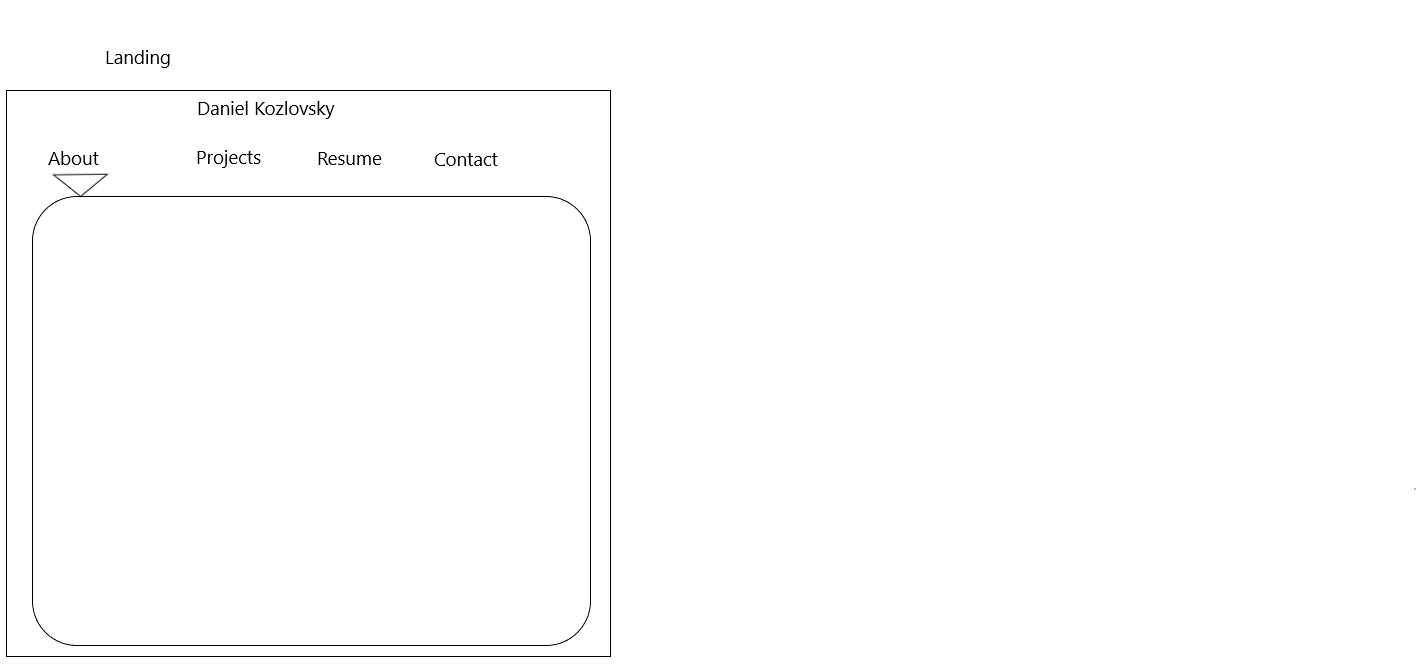
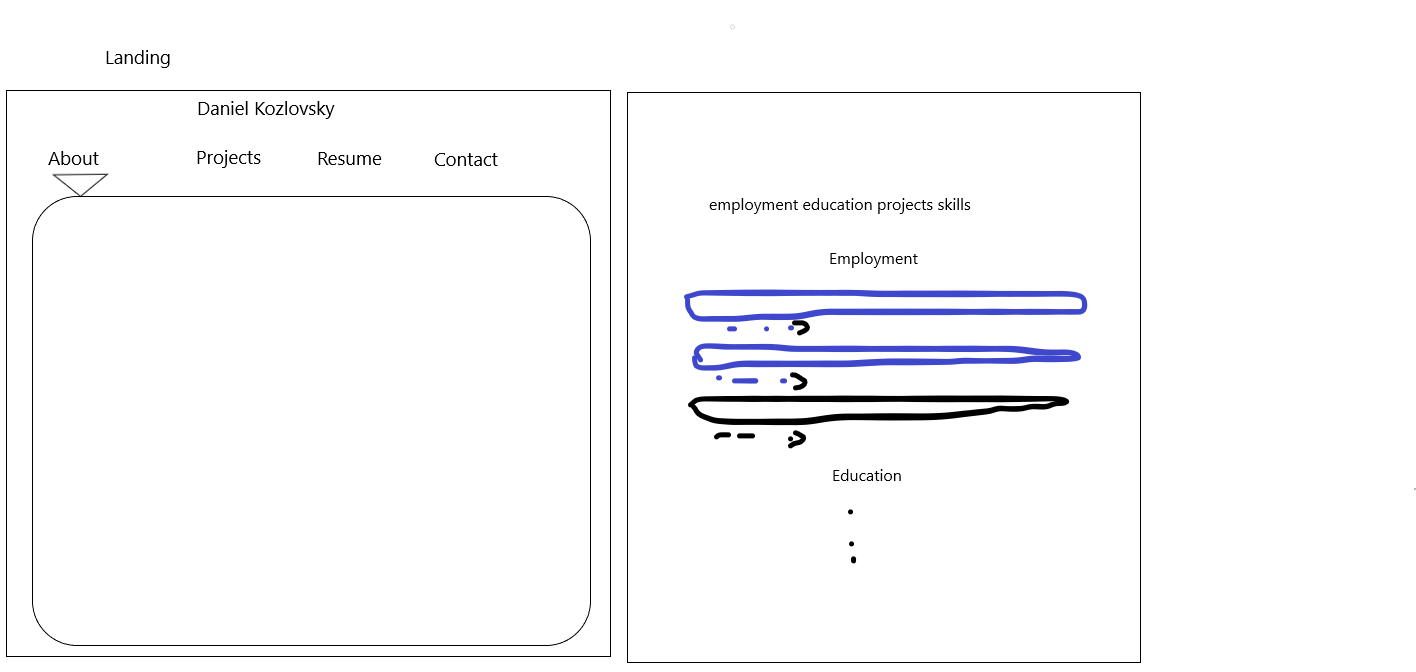
started styling, added main content

diff --git a/my-website/src/components/App.jsx b/my-website/src/components/App.jsx
@@ -1,34 +1,44 @@
 import React from 'react';
 import {Switch, Route, Link as NavLink} from 'react-router-dom';
-import withStyles from 'react-jss';
+import withStyles, { useTheme } from 'react-jss';
 
 import Contact from './routes/Contact';
 import About from './routes/About';
 import Resume from './routes/Resume';
 import Projects from './routes/Projects';
 
-const ABOUT_PATH = "/";
-const PROJECTS_PATH = "/Projects";
-const CONTACT_PATH = "/Contact";
-const RESUME_PATH = "/Resume";
+export const ABOUT_PATH = "/";
+export const PROJECTS_PATH = "/Projects";
+export const CONTACT_PATH = "/Contact";
+export const RESUME_PATH = "/Resume";
 
 class App extends React.Component {
+  
+  constructor(props) {
+    super(props);
+    const {theme} = this.props;
+    document.body.style.backgroundColor = theme.page.backgroundColor;
+  }
 
   render (){
     const {classes} = this.props;
     return (
       <div className={classes.root}>
-        <NavLink to={ABOUT_PATH}>About Me</NavLink>
-        <NavLink to={PROJECTS_PATH}>Projects</NavLink>
-        <NavLink to={RESUME_PATH}>Resume</NavLink>
-        <NavLink to={CONTACT_PATH}>Contact</NavLink>
-        
-        <Switch>
-          <Route path={PROJECTS_PATH} component={Projects}/>
-          <Route path={RESUME_PATH} component={Resume}/>
-          <Route path={CONTACT_PATH} component={Contact}/>
-          <Route path={ABOUT_PATH} component={About}/>
-        </Switch>
+        <h1 className={classes.name}>Daniel Kozlovsky</h1>
+        <div className={classes.navBar}>
+          <NavLink to={ABOUT_PATH}>About Me</NavLink>
+          <NavLink to={PROJECTS_PATH}>Projects</NavLink>
+          <NavLink to={RESUME_PATH}>Resume</NavLink>
+          <NavLink to={CONTACT_PATH}>Contact</NavLink>
+        </div>
+        <div className={classes.page}>
+          <Switch>
+            <Route path={PROJECTS_PATH} component={Projects}/>
+            <Route path={RESUME_PATH} component={Resume}/>
+            <Route path={CONTACT_PATH} component={Contact}/>
+            <Route path={ABOUT_PATH} component={About}/>
+          </Switch>
+        </div>
       </div>
     );
   }
@@ -36,8 +46,21 @@ class App extends React.Component {
 
 const styles = (theme) => ({
   root: {
-    background: theme.background,
+    height: '100vh'
   },
+  name: {
+    textAlign: 'center',
+    marginTop: '2%'
+  },
+  navBar: {
+    display: 'flex',
+    justifyContent: 'space-evenly',
+
+    '& a': {
+      margin: 'auto'
+    }
+  },
+  page: {},
 });
 
-export default withStyles(styles)(App);
+export default withStyles(styles, {injectTheme: true})(App);

diff --git a/my-website/src/components/routes/About.jsx b/my-website/src/components/routes/About.jsx
@@ -1,17 +1,44 @@
 import React from 'react';
+import withStyles from 'react-jss';
+import { Link } from 'react-router-dom';
 
+import {PROJECTS_PATH} from '../App.jsx';
+
+import myPortrait from '../../media/img/danielcartoon4.png';
 
 class About extends React.Component {
 
     render() {
+        const {classes} = this.props;
         return (
-            <div>
-                <img alt="headshot"/>
-                <p>About me</p>
+            <div className={classes.root}>
+                <img className={classes.portrait} src={myPortrait} alt="My Portrait"/>
+                <div className={classes.blockText}>
+                    <p className={classes.text}>
+                        Hi, I'm Daniel and I'm an adventurer through the world of computers. I'm mainly interested in programming and passionate about 
+                        computer security. In fact, I'm always looking for opportunities to combine the two. I recently finished school, where I earned my Software Engineering degree
+                        and got the chance to work on cool projects like <Link to={PROJECTS_PATH}>these</Link>.
+                    </p>
+                    <p className={classes.text}>
+                        Programming allows me to build things, exercising my creativity and problem solving technique. As a result I have fun programming, and learning new technologies on the way.
+                        In addition, computer security is important to me because I believe it's essential for advancing cyber technologies. It's also an interesting field in the way that there are 
+                        creative solutions to curious problems. 
+                    </p>
+                </div>
             </div>
         );
     }
 
 }
 
-export default About;
+const styles = (theme) => ({
+    root: {
+        display: 'flex',
+        
+    },
+    portrait: {},
+    blockText: {},
+    text: {},
+});
+
+export default withStyles(styles)(About);

diff --git a/my-website/src/components/routes/Resume.jsx b/my-website/src/components/routes/Resume.jsx
@@ -1,4 +1,5 @@
 import React from 'react';
+import {GrDocumentDownload} from 'react-icons/gr';
 
 
 class Resume extends React.Component {
@@ -7,9 +8,22 @@ class Resume extends React.Component {
         return (
             <div>
                 <h2>Here is my resume</h2>
-                <a href="resume.pdf" download="resume.pdf">dl</a>
+                <a href="resume.pdf" download="resume.pdf">Download my comprehensive resume here <GrDocumentDownload/></a>
                 <hr/>
-                <p>Resume...</p>
+                <div>
+                    <h3>Employment</h3>
+                    <div>
+                        <h4>Cyber Threat Intelligence Analyst</h4>
+                        <h5>BMO Financial Group - Toronto, Canada</h5>
+                        <h5>May 2020 - Sept 2020</h5>
+                        <ul>
+                            <li>Researched current and strategic cyber threats to the company and industry, writing 5-7 formal reports per week</li>
+                            <li>Used research, analytical skills and security knowledge to assess cyber threats to the company, with the help of tools like FireEye and Intel471</li>
+                            <li>Presented cyber threat reports company-wide, to stakeholders, senior and executive management in both briefing and feature presentation scenarios</li>
+                            <li>Contributed hundreds of IoCs per week while working closely with SOC teams to assess vulnerabilities and company exposure</li>
+                        </ul>
+                    </div>
+                </div>
             </div>
         );
     }

diff --git a/my-website/src/components/routes/Contact.jsx b/my-website/src/components/routes/Contact.jsx
@@ -1,18 +1,34 @@
 import React from 'react';
+import withStyles from 'react-jss';
+
+import {GoMarkGithub} from 'react-icons/go';
+import {AiOutlineMail} from 'react-icons/ai';
 
 
 class Contact extends React.Component {
 
+
     render() {
         return (
             <div>
-                <p>contact me at...</p>
-                <label>Email: myemail</label>
-                <label>github: mygit</label>
+                <h3>Feel free to reach out via email or checkout my Github</h3>
+                <a>
+                    <AiOutlineMail/>
+                    <label>Email: myemail</label>
+                </a>
+                <a>
+                    <GoMarkGithub/>
+                    <label>github: mygit</label>
+                </a>
             </div>
         );
     }
 
 }
 
-export default Contact;
+const styles = (theme) => ({
+    root: {},
+
+});
+
+export default withStyles(styles)(Contact);

diff --git a/my-website/src/index.js b/my-website/src/index.js
@@ -6,8 +6,13 @@ import {ThemeProvider} from 'react-jss';
 import App from './components/App';
 
 const theme = {
-  background: '#fafafa',
-  color: '#fff',
+  page: {
+    backgroundColor: '#f0f0f0',
+  },
+  text: {
+    color: '',
+  },
+
 };
 
 render(
